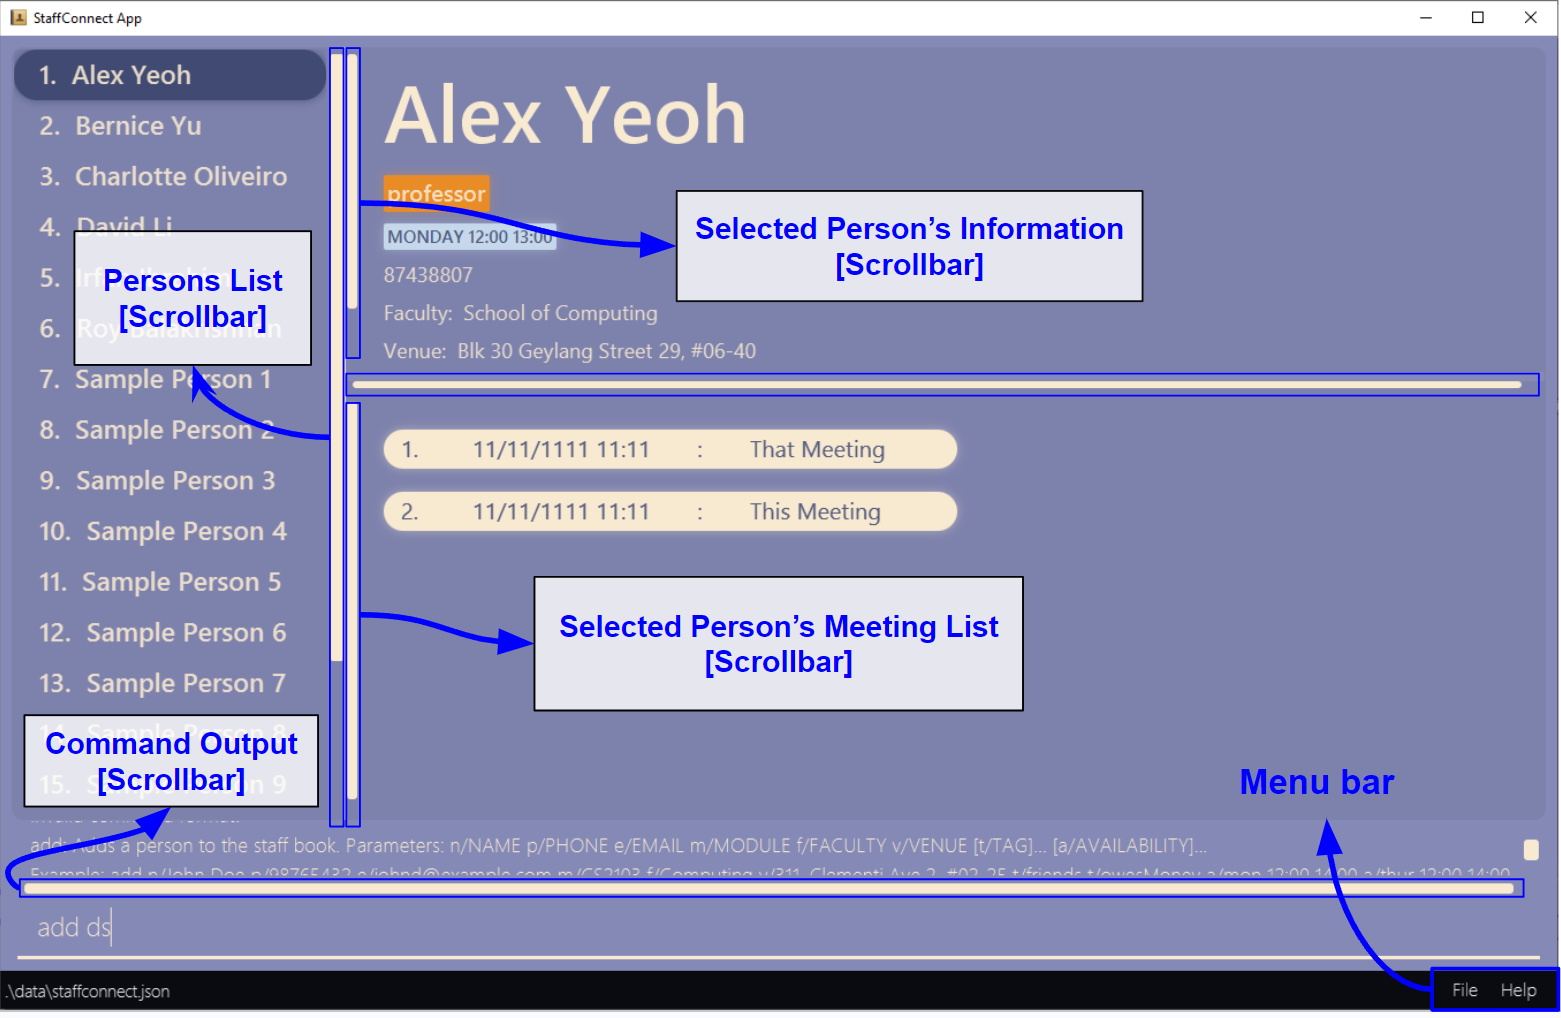
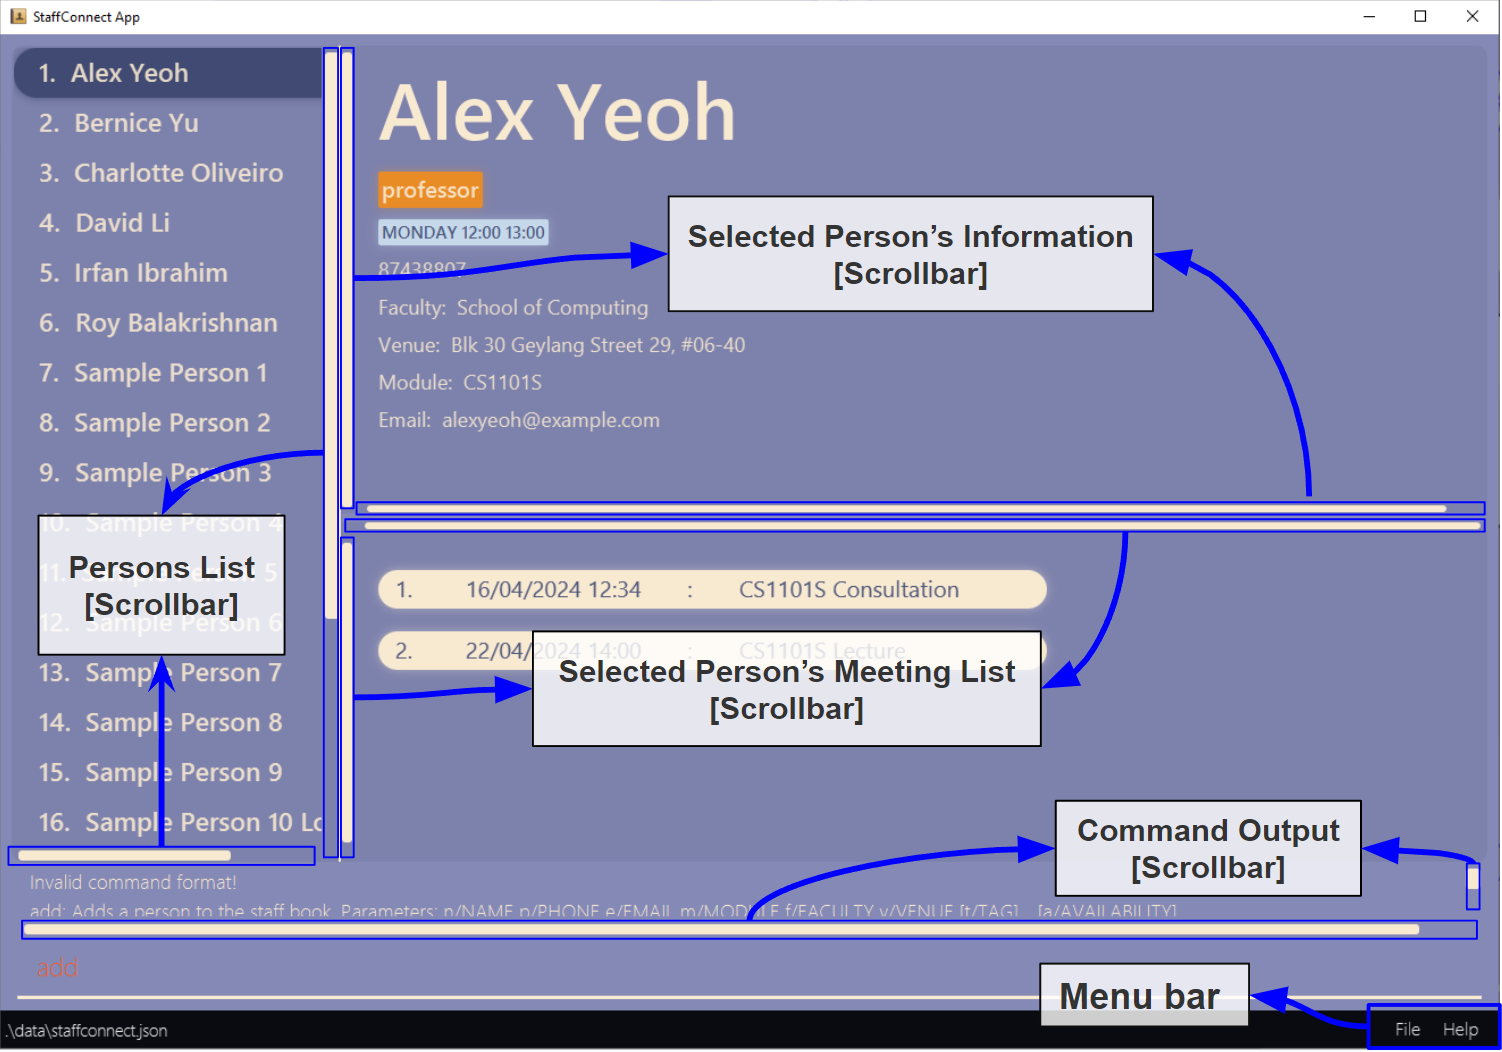
Replace ui annotations with grey text and add missing scrollbars

diff --git a/docs/UserGuide.md b/docs/UserGuide.md
@@ -42,7 +42,7 @@ StaffConnect (SC) is a **desktop app for managing Professors' and Tutors' contac
 ## Navigability
 
 ### Overall UI layout
-<br>![UI General](images/UiAnnotationsGeneraL.png)
+<br>![UI General](images/UiAnnotationsLayout.png)
 
 #### [UI] Persons Info
 <br>![UI General](images/UiAnnotationsAttributes.png)
